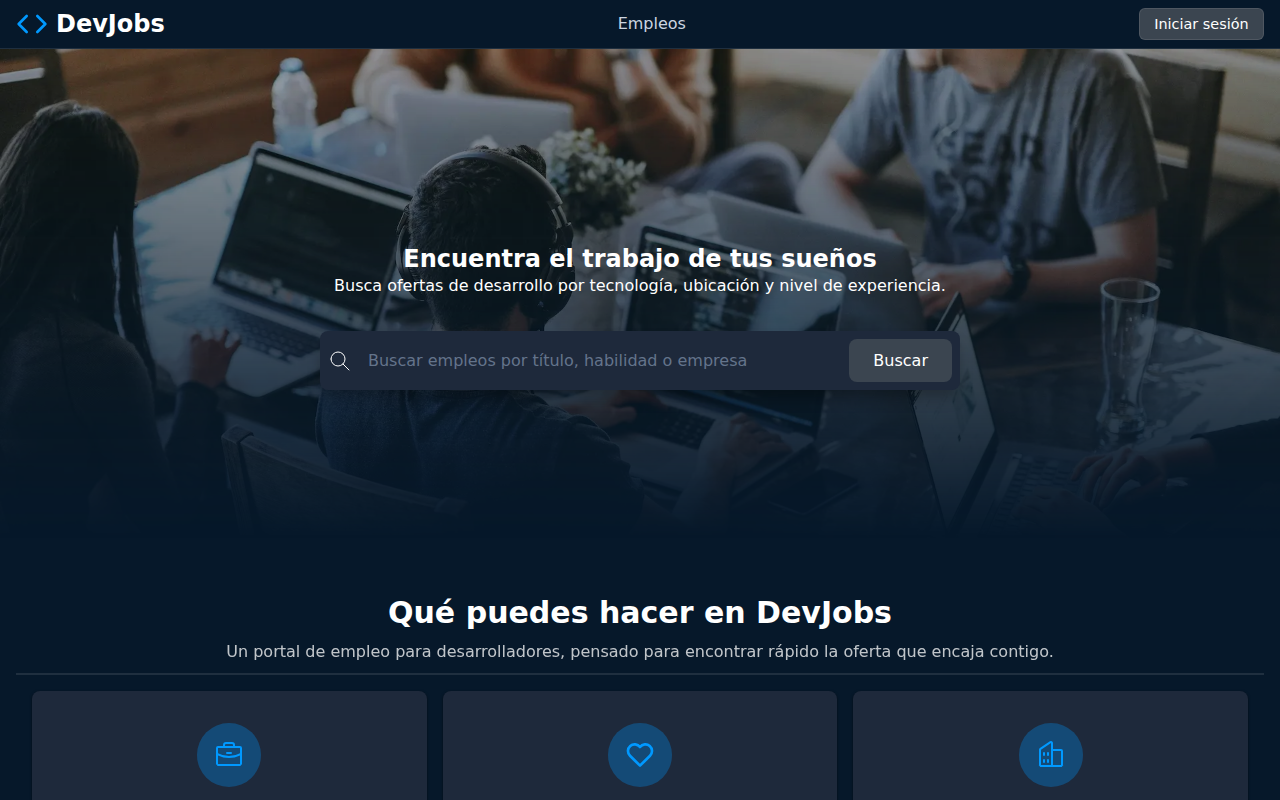
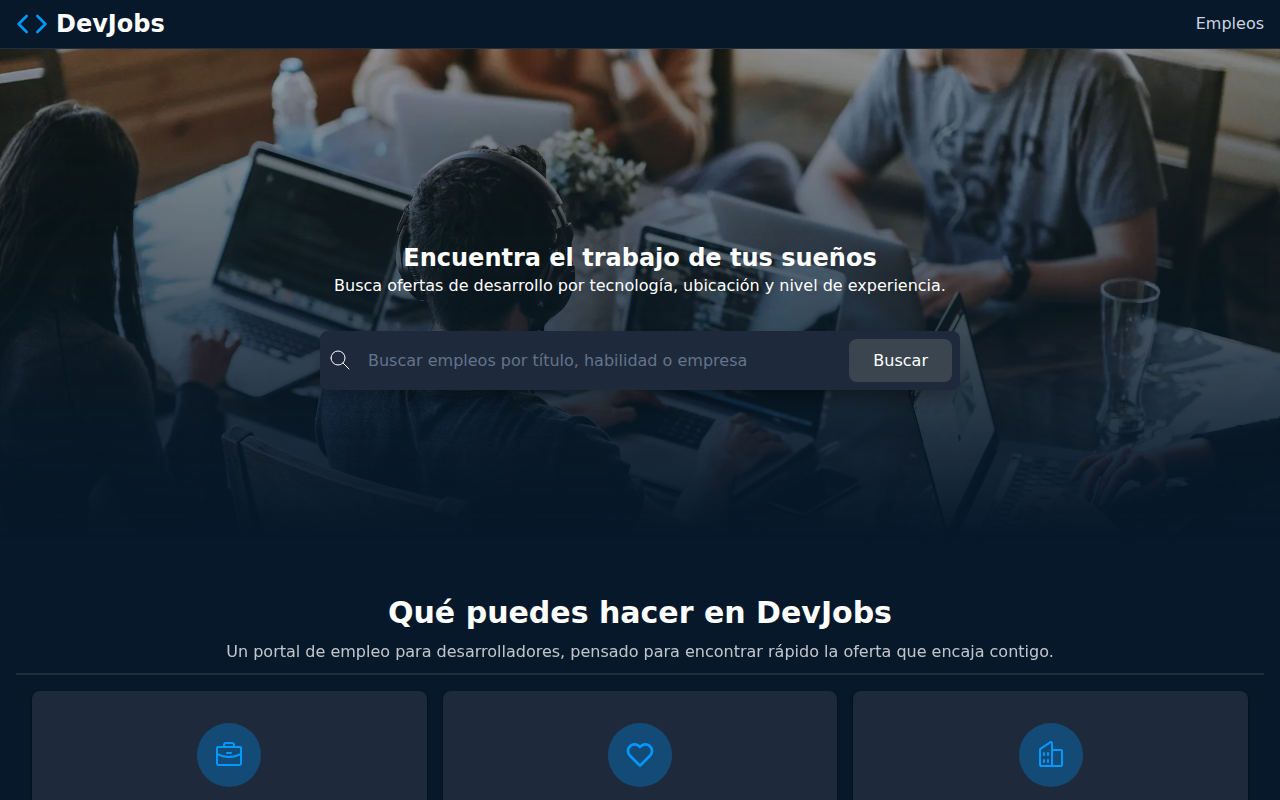
feat(web): remove simulated login and allow applying without an account (#14)

Changed region(s): [[0.3125, 0.3125, 0.6875, 0.3438], [0.875, 0.0, 1.0, 0.0625], [0.5, 0.0, 0.5312, 0.0625]]

diff --git a/e2e/tests/jobs.spec.ts b/e2e/tests/jobs.spec.ts
@@ -151,25 +151,20 @@ test.describe('Detalle y candidatura', () => {
     await expect(page.getByRole('listitem').first()).toBeVisible()
   })
 
-  test('exige iniciar sesión para aplicar', async ({ page }) => {
+  test('permite aplicar desde el detalle', async ({ page }) => {
     await searchFromHome(page, 'JavaScript')
     await expect(page).toHaveURL(/\/search\?text=JavaScript/)
 
-    await expect(jobCards(page).first().getByRole('button', { name: 'Aplicar' })).toBeDisabled()
+    // Sin cuentas de usuario: se puede aplicar directamente
+    await expect(jobCards(page).first().getByRole('button', { name: 'Aplicar' })).toBeEnabled()
 
     await openFirstJobDetail(page)
-    await expect(page.getByRole('button', { name: 'Inicia sesión para aplicar' })).toBeDisabled()
-
-    await page.getByRole('button', { name: 'Iniciar sesión' }).click()
-    await expect(page.getByRole('button', { name: 'Cerrar sesión' })).toBeVisible()
-
     await page.getByRole('button', { name: 'Aplicar ahora' }).click()
     await expect(page.getByRole('button', { name: 'Aplicado' })).toBeDisabled()
   })
 
   test('la candidatura se refleja en el listado y en el detalle', async ({ page }) => {
     await page.goto('/search')
-    await page.getByRole('button', { name: 'Iniciar sesión' }).click()
 
     const firstJob = jobCards(page).first()
     await firstJob.getByRole('button', { name: 'Aplicar' }).click()
@@ -192,9 +187,8 @@ test.describe('Detalle y candidatura', () => {
     await expect(firstJob.getByRole('button', { name: 'Agregar a favoritos' })).toBeVisible()
   })
 
-  test('conserva favoritos, sesión y candidaturas al recargar la página', async ({ page }) => {
+  test('conserva favoritos y candidaturas al recargar la página', async ({ page }) => {
     await page.goto('/search')
-    await page.getByRole('button', { name: 'Iniciar sesión' }).click()
 
     const firstJob = jobCards(page).first()
     await firstJob.getByRole('button', { name: 'Agregar a favoritos' }).click()
@@ -203,7 +197,6 @@ test.describe('Detalle y candidatura', () => {
 
     await page.reload()
 
-    await expect(page.getByRole('button', { name: 'Cerrar sesión' })).toBeVisible()
     await expect(firstJob.getByRole('button', { name: 'Quitar de favoritos' })).toHaveAttribute(
       'aria-pressed',
       'true',
@@ -229,9 +222,6 @@ test.describe('Diseño adaptable', () => {
     await expectNoHorizontalScroll(page)
 
     await openFirstJobDetail(page)
-    await expectNoHorizontalScroll(page)
-
-    await page.getByRole('button', { name: 'Iniciar sesión' }).click()
     await expect(page.getByRole('button', { name: 'Aplicar ahora' })).toBeVisible()
     await expectNoHorizontalScroll(page)
 

diff --git a/apps/web/src/components/Header.module.css b/apps/web/src/components/Header.module.css
@@ -1,10 +1,6 @@
-/*
- * En móvil todo se compacta para caber en una línea desde 360 px. En pantallas
- * aún más estrechas, el botón pasa a una segunda línea en vez de salirse.
- */
+/* En móvil, logo y navegación más compactos */
 .header {
-  flex-wrap: wrap;
-  gap: 0.5rem 0.75rem;
+  gap: 0.75rem;
   padding-inline: 0.75rem;
 }
 
@@ -47,26 +43,4 @@
   padding: 2px;
   border-bottom: 1px solid var(--nav-link);
   pointer-events: none;
-}
-
-.btnLogin {
-  background-color: var(--primary);
-  color: var(--text-primary);
-  border: 1px solid var(--border);
-  padding: 0.4rem 0.75rem;
-  font-size: 0.875rem;
-  font-weight: 500;
-  border-radius: 6px;
-  cursor: pointer;
-  transition: all 0.2s ease;
-
-  &:hover {
-    background-color: var(--primary-hover);
-    border-color: #ffffff59;
-  }
-
-  @media (min-width: 640px) {
-    padding: 0.45rem 0.9rem;
-    font-size: 0.9rem;
-  }
 }

diff --git a/apps/web/src/hooks/useApplication.ts b/apps/web/src/hooks/useApplication.ts
@@ -1,17 +1,12 @@
 import { useApplicationsStore } from '../store/applicationsStore'
-import { useAuthStore } from '../store/authStore'
 
-/** Estado de la candidatura a una oferta. Solo se puede aplicar con sesión iniciada. */
+/** Estado de la candidatura a una oferta. La candidatura se guarda en el navegador. */
 export function useApplication(jobId: string) {
-  const isLoggedIn = useAuthStore((state) => state.isLoggedIn)
-  const isApplied = useApplicationsStore((state) => state.appliedJobIds.includes(jobId))
+  const hasApplied = useApplicationsStore((state) => state.appliedJobIds.includes(jobId))
   const applyToJob = useApplicationsStore((state) => state.apply)
 
   return {
-    isLoggedIn,
-    hasApplied: isLoggedIn && isApplied,
-    apply: () => {
-      if (isLoggedIn) applyToJob(jobId)
-    },
+    hasApplied,
+    apply: () => applyToJob(jobId),
   }
 }

diff --git a/apps/web/src/components/Header.tsx b/apps/web/src/components/Header.tsx
@@ -1,22 +1,5 @@
 import { Link, NavLink } from 'react-router'
-import { useAuthStore } from '../store/authStore'
 import styles from './Header.module.css'
-
-function HeaderUserButton() {
-  const isLoggedIn = useAuthStore((state) => state.isLoggedIn)
-  const login = useAuthStore((state) => state.login)
-  const logout = useAuthStore((state) => state.logout)
-
-  return isLoggedIn ? (
-    <button onClick={logout} className={styles.btnLogin}>
-      Cerrar sesión
-    </button>
-  ) : (
-    <button onClick={login} className={styles.btnLogin}>
-      Iniciar sesión
-    </button>
-  )
-}
 
 export function Header() {
   return (
@@ -45,8 +28,6 @@ export function Header() {
           Empleos
         </NavLink>
       </nav>
-
-      <HeaderUserButton />
     </header>
   )
 }

diff --git a/apps/web/src/components/JobCard.tsx b/apps/web/src/components/JobCard.tsx
@@ -5,18 +5,7 @@ import { useFavoritesStore } from '../store/favoritesStore'
 import styles from './JobCard.module.css'
 
 function JobCardApplyButton({ jobId }: { jobId: string }) {
-  const { isLoggedIn, hasApplied, apply } = useApplication(jobId)
-
-  if (!isLoggedIn) {
-    // El botón desactivado no recibe el ratón: el aviso va en el contenedor
-    return (
-      <span className={styles.applyHint} title="Inicia sesión para aplicar">
-        <button className="button-apply-job" disabled>
-          Aplicar
-        </button>
-      </span>
-    )
-  }
+  const { hasApplied, apply } = useApplication(jobId)
 
   return (
     <button

diff --git a/apps/web/src/pages/Detail.tsx b/apps/web/src/pages/Detail.tsx
@@ -22,15 +22,7 @@ function JobSection({ title, content }: { title: string; content?: string }) {
 }
 
 function DetailApplyButton({ jobId }: { jobId: string }) {
-  const { isLoggedIn, hasApplied, apply } = useApplication(jobId)
-
-  if (!isLoggedIn) {
-    return (
-      <button disabled className={styles.applyButton}>
-        Inicia sesión para aplicar
-      </button>
-    )
-  }
+  const { hasApplied, apply } = useApplication(jobId)
 
   return (
     <button onClick={apply} disabled={hasApplied} className={styles.applyButton}>

diff --git a/apps/web/src/components/JobCard.module.css b/apps/web/src/components/JobCard.module.css
@@ -37,12 +37,6 @@
   }
 }
 
-.applyHint {
-  display: flex;
-  flex-direction: column;
-  cursor: not-allowed;
-}
-
 .btnFavorite {
   display: inline-flex;
   align-items: center;

diff --git a/README.md b/README.md
@@ -20,7 +20,7 @@ Es una aplicación full stack en un monorepo: una web en React y una API REST pr
 DevJobs empezó como proyecto del bootcamp de midudev en [JsCamp](https://www.jscamp.dev/). La web, la API, la base de datos, los tests, Docker y la integración continua se hicieron siguiendo el curso. Después fui añadiendo:
 
 - API de solo lectura en producción, para proteger la demo pública ([#7](https://github.com/CheT018/devjobs/pull/7)).
-- Sesión, favoritos y candidaturas que se conservan al recargar ([#8](https://github.com/CheT018/devjobs/pull/8)).
+- Favoritos y candidaturas que se conservan al recargar ([#8](https://github.com/CheT018/devjobs/pull/8)).
 - Diseño adaptado al móvil, con los tests de extremo a extremo también en móvil ([#9](https://github.com/CheT018/devjobs/pull/9)).
 - Textos de la portada ajustados a lo que hace la aplicación ([#10](https://github.com/CheT018/devjobs/pull/10)).
 - Despliegue en Vercel, con la web y la API en el mismo dominio ([#11](https://github.com/CheT018/devjobs/pull/11)).
@@ -173,6 +173,5 @@ Todas son opcionales. Hay un ejemplo en `apps/api/.env.example` y otro en `apps/
 
 ## Estado actual
 
-- El inicio de sesión es simulado: un botón alterna el estado, sin usuarios ni contraseñas.
 - Las rutas de escritura de la API no requieren autenticación; por eso están desactivadas en producción.
-- La sesión, las candidaturas y los favoritos se guardan en el `localStorage` del navegador, no en la API.
+- No hay cuentas de usuario: las candidaturas y los favoritos se guardan en el `localStorage` del navegador, no en la API.
